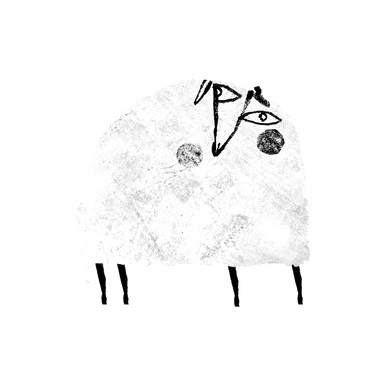
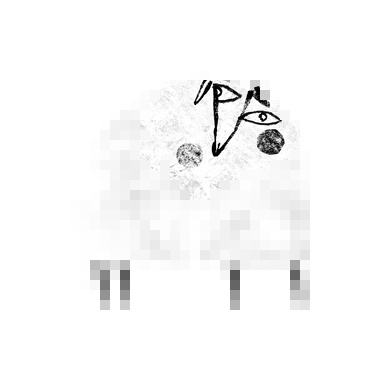
feat(offline): the maintainer's offline sheep and a generic blog cover for uncached covers
The worker serves blog-offline.png for any uncached image whose file name starts with
"blog-" (article covers, blog index cards, "more from the blog") and the offline sheep for
everything else; the announcement post uses the generic cover and the grayscale placeholder
cover is removed.

diff --git a/public/sw.js b/public/sw.js
@@ -12,6 +12,8 @@ const STATIC_CACHE = "ds-static"
 const ASSETS_CACHE = `ds-assets-${VERSION}` // /assets, /fonts, manifest…
 const FALLBACK_PATH = "/dreams"
 const OFFLINE_SHEEP = "/assets/sheep-offline.png"
+// blog covers (article pages, the blog index cards, "more from the blog") get their own stand-in
+const OFFLINE_BLOG_COVER = "/assets/blog-offline.png"
 const NAV_TIMEOUT_MS = 4000
 const PAGES_LIMIT = 50
 const ASSET_LIMIT = 100
@@ -43,7 +45,7 @@ function pageKey(url) {
 async function refreshPrecache() {
   try {
     const cache = await caches.open(PRECACHE)
-    let urls = [FALLBACK_PATH, OFFLINE_SHEEP]
+    let urls = [FALLBACK_PATH, OFFLINE_SHEEP, OFFLINE_BLOG_COVER]
     try {
       const res = await fetch("/sw-precache.json", { cache: "no-cache" })
       if (res.ok) urls = urls.concat(await res.json())
@@ -153,7 +155,7 @@ async function cacheFirst(event, cacheName, limit) {
     if (response.ok) event.waitUntil(putLimited(cacheName, request, response.clone(), limit))
     return response
   } catch {
-    if (request.destination === "image") return offlineImage()
+    if (request.destination === "image") return offlineImage(request)
     return new Response("", { status: 504 })
   }
 }
@@ -173,15 +175,19 @@ async function staleWhileRevalidate(event, cacheName, limit) {
   }
   const response = await network
   if (response) return response
-  if (request.destination === "image") return offlineImage()
+  if (request.destination === "image") return offlineImage(request)
   return new Response("", { status: 504 })
 }
 
-async function offlineImage() {
-  // the offline sheep, precached at install: every uncached image offline becomes a sheep,
-  // even a never-visited blog cover. The gray SVG only covers a failed precache.
-  const sheep = await safeMatch(PRECACHE, OFFLINE_SHEEP)
-  if (sheep) return sheep
+async function offlineImage(request) {
+  // every uncached image offline becomes a sheep: blog covers (file names start with "blog-",
+  // whether served from /assets or as content-hashed /_next/static/media imports) get the
+  // generic blog cover, everything else the offline sheep — both precached at install.
+  // The gray SVG only covers a failed precache.
+  const file = new URL(request.url).pathname.split("/").pop() || ""
+  const standIn = file.startsWith("blog-") ? OFFLINE_BLOG_COVER : OFFLINE_SHEEP
+  const cached = (await safeMatch(PRECACHE, standIn)) || (await safeMatch(PRECACHE, OFFLINE_SHEEP))
+  if (cached) return cached
   const svg =
     '<svg xmlns="http://www.w3.org/2000/svg" viewBox="0 0 384 288">' +
     '<rect width="100%" height="100%" fill="#e0e0e0"/>' +

diff --git a/src/pages/blog/use-case-four-dreaming-offline/index.tsx b/src/pages/blog/use-case-four-dreaming-offline/index.tsx
@@ -12,7 +12,7 @@ import RelatedPosts from "src/core/components/RelatedPosts"
 import { getRelatedBlogs, type Blog } from "src/pages/api/blog/get-blogs"
 import type { GetStaticProps } from "next"
 import Image from "next/image"
-import blogDreamingOffline from "public/assets/blog-dreaming-offline.jpg"
+import blogOffline from "public/assets/blog-offline.png"
 import Link from "next/link"
 
 const ArticlePageUseCaseFourDreamingOffline: BlitzPage<{ related: Blog[] }> = ({ related }) => {
@@ -60,8 +60,8 @@ const ArticlePageUseCaseFourDreamingOffline: BlitzPage<{ related: Blog[] }> = ({
               <CardHeader subheader="Sun Sep 27 2026" className="py-0" />
               <CardContent>
                 <Image
-                  src={blogDreamingOffline}
-                  alt="The Floating Island by Araiko-O"
+                  src={blogOffline}
+                  alt="the offline sheep"
                   width={900}
                   height={692}
                   className="w-full h-auto"
@@ -136,7 +136,7 @@ ArticlePageUseCaseFourDreamingOffline.getLayout = (page) => (
   <Layout
     title="Use case four: Dreaming offline"
     description="dreamingsheep now works offline: open the journal without a signal, write the dream down, and it quietly syncs the next time you are connected."
-    ogCoverImage={blogDreamingOffline.src}
+    ogCoverImage={blogOffline.src}
     ogCoverImageSecondary={ogCoverImageBlog.src}
   >
     {page}

diff --git a/src/pages/blog/use-case-four-dreaming-offline/data.md b/src/pages/blog/use-case-four-dreaming-offline/data.md
@@ -1,7 +1,7 @@
 ---
 title: "Use case four: Dreaming offline"
 date: "Sun Sep 27 2026."
-imageUrl: "/assets/blog-dreaming-offline.jpg"
+imageUrl: "/assets/blog-offline.png"
 related:
   - "use-case-two-add-to-home-screen"
   - "use-case-three-off-the-charts"
